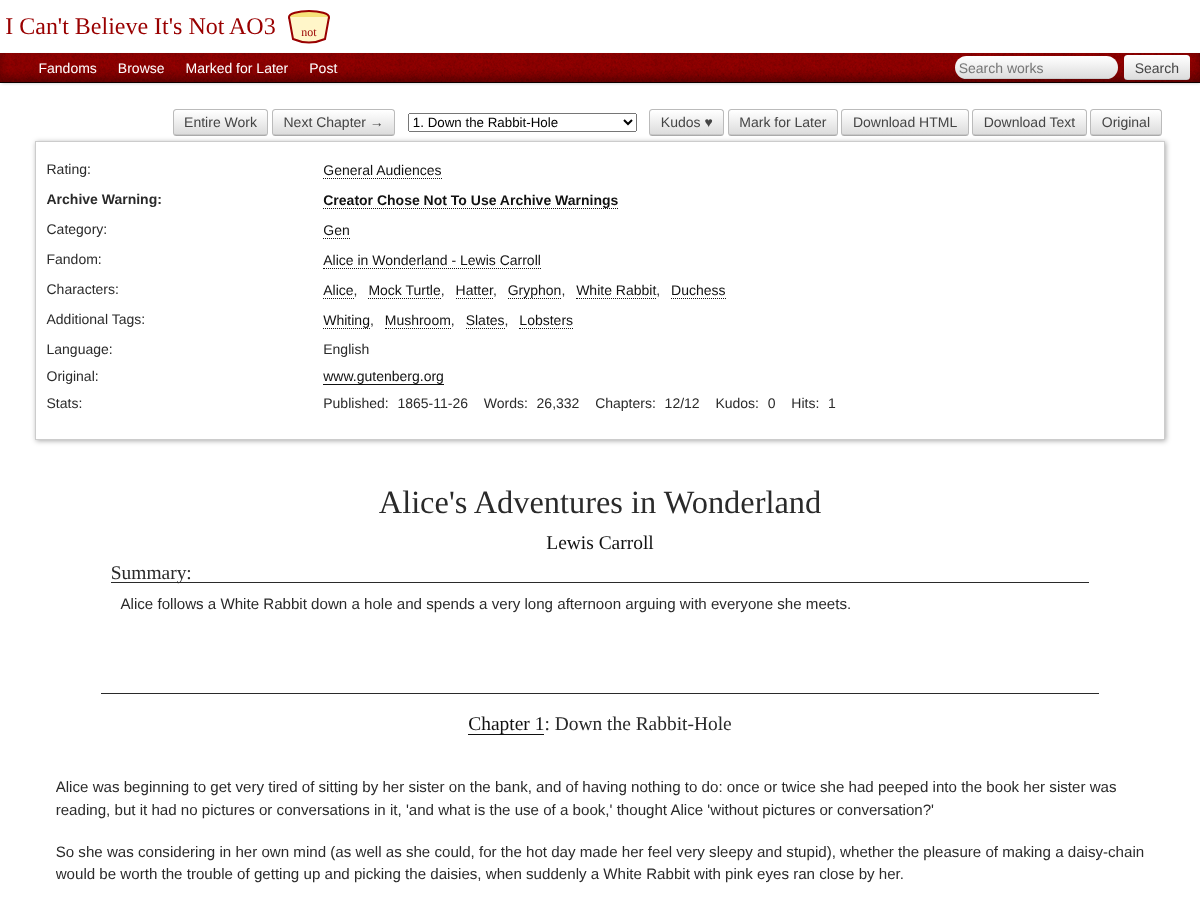
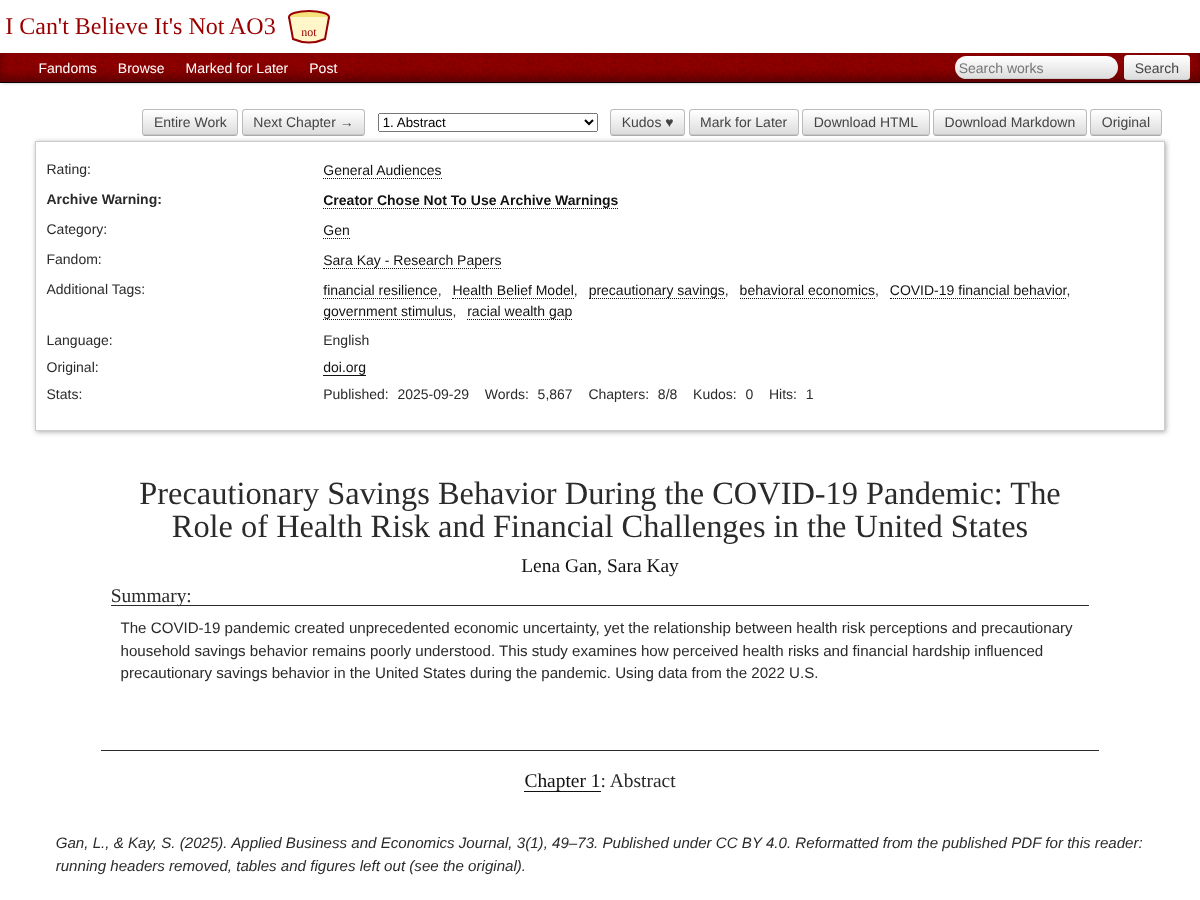
README: show the paper and the Bible as work pages, with captions

diff --git a/README.md b/README.md
@@ -27,7 +27,13 @@ So this is for anyone with AO3 withdrawal. It puts everything else you read (art
 
 **Demo:** [ssskay.github.io/not-ao3](https://ssskay.github.io/not-ao3/), built from the public-domain books, essays and sample pages in [`demo-shelf/`](demo-shelf).
 
-![A work page](docs/screenshot-work.png)
+![A work page: Precautionary Savings Behavior During the COVID-19 Pandemic](docs/screenshot-work.png)
+
+*A research paper as a work: [Precautionary Savings Behavior During the COVID-19 Pandemic](https://doi.org/10.61089/abej.2025.3.145) by Lena Gan and Sara Kay (2025), reformatted from the published PDF. Each section of the paper is a chapter, starting with the Abstract.*
+
+![A work page: The Holy Bible, World English Bible](docs/screenshot-bible.png)
+
+*The whole World English Bible as one work: 66 chapters (one per book), 751,404 words, with Yahweh, Israel, David, Jesus, Judah and Moses picked out as characters.*
 
 ## What it reads
 
